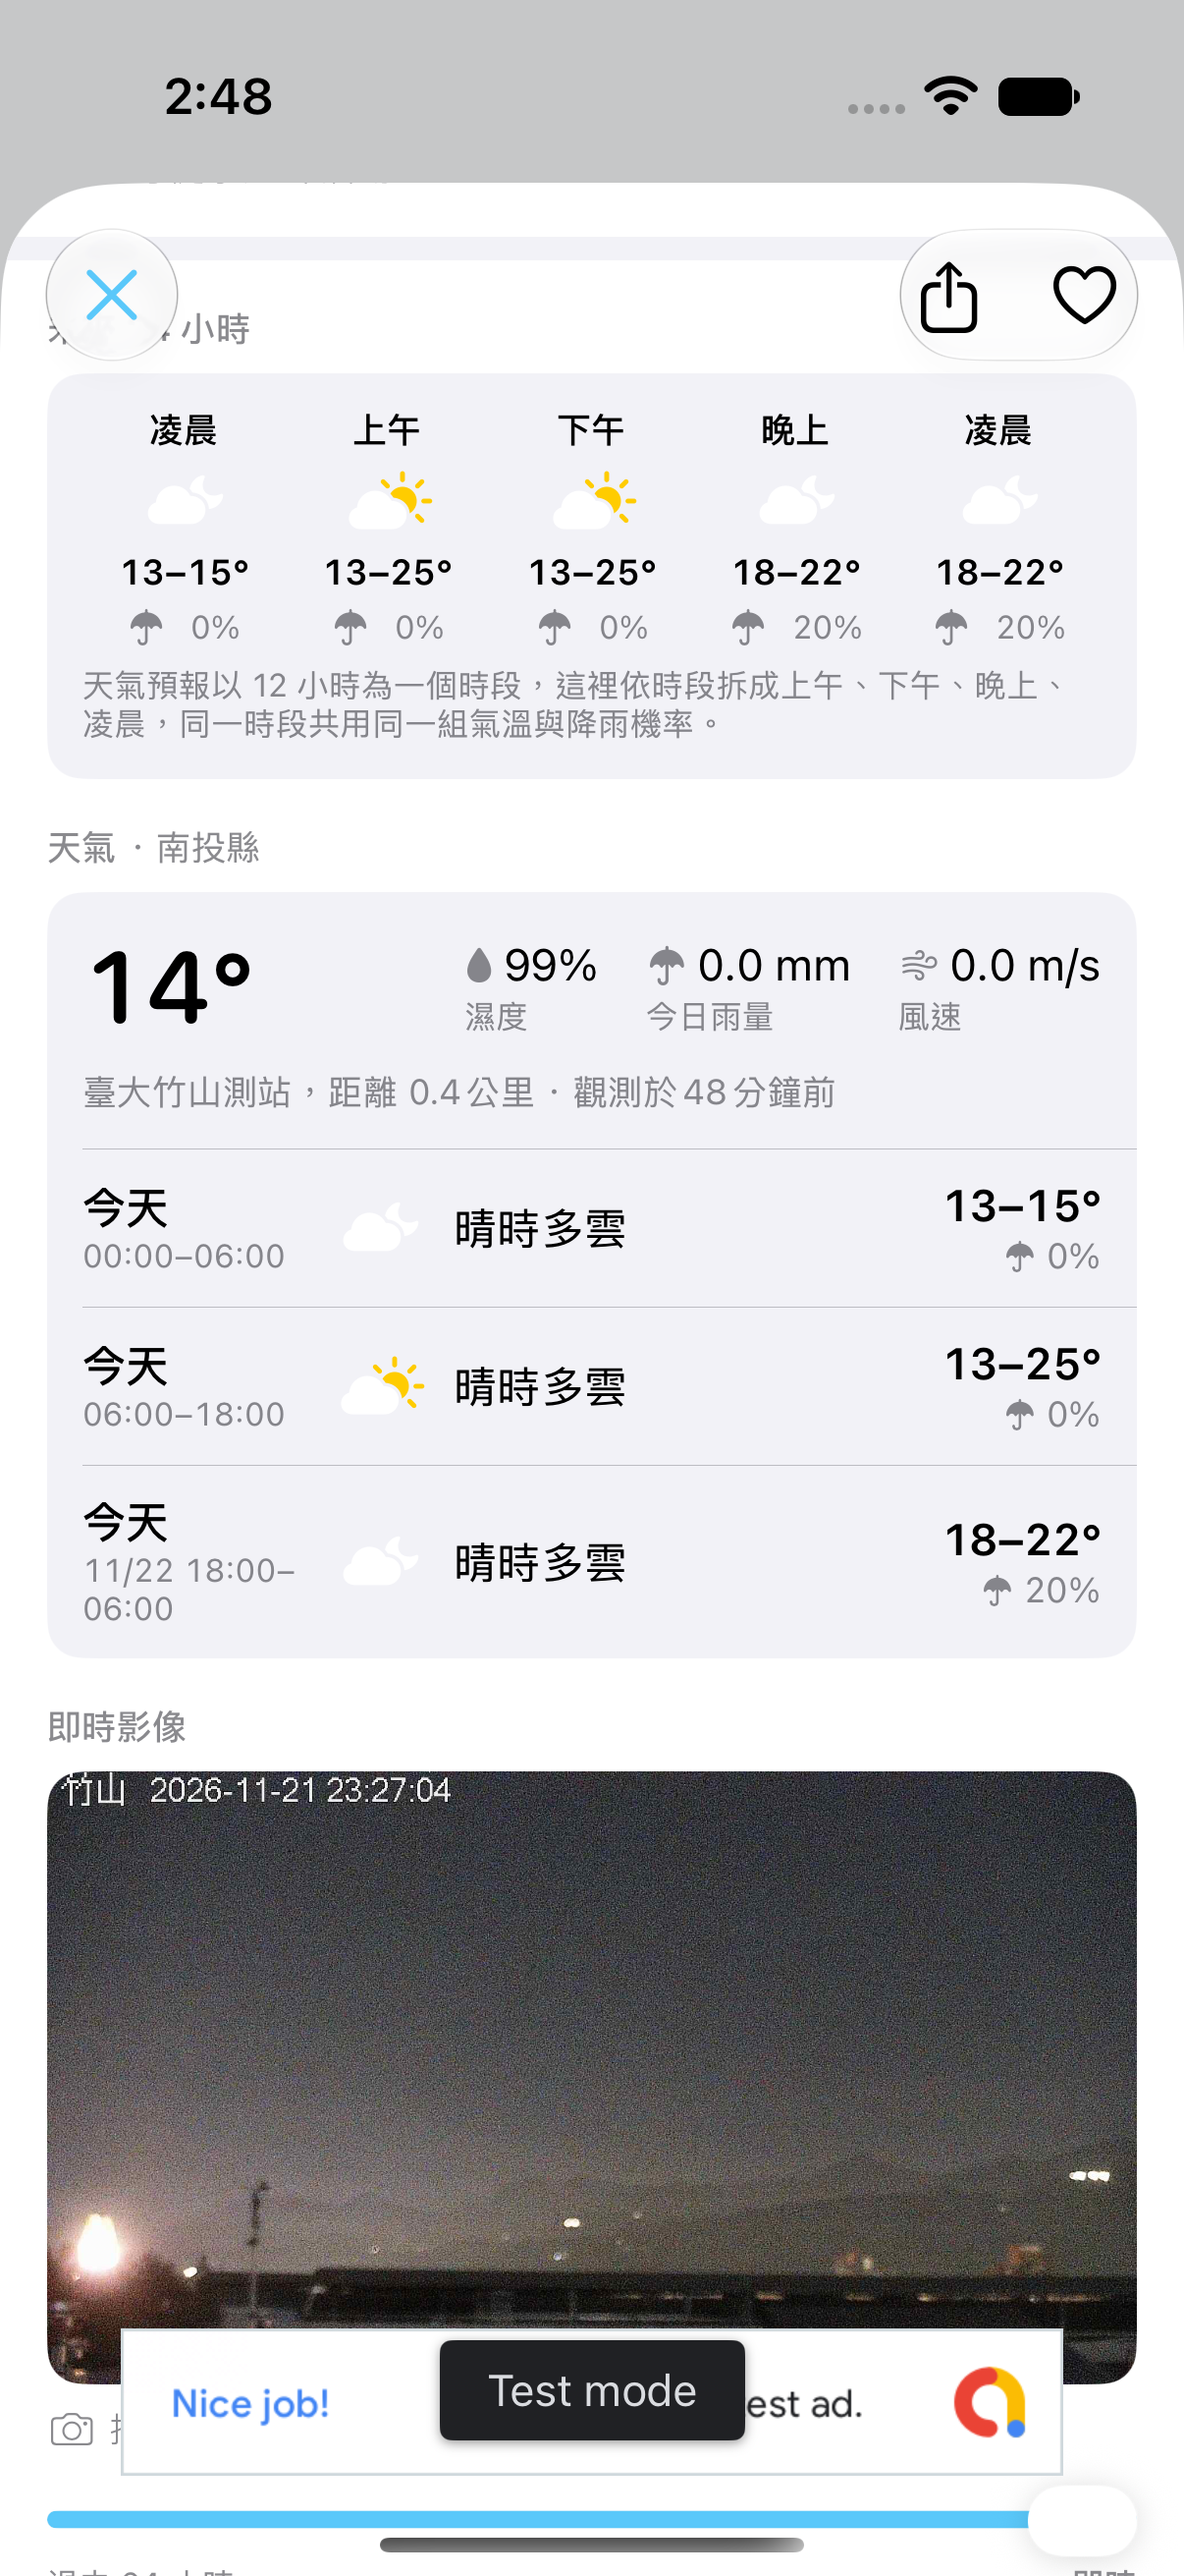
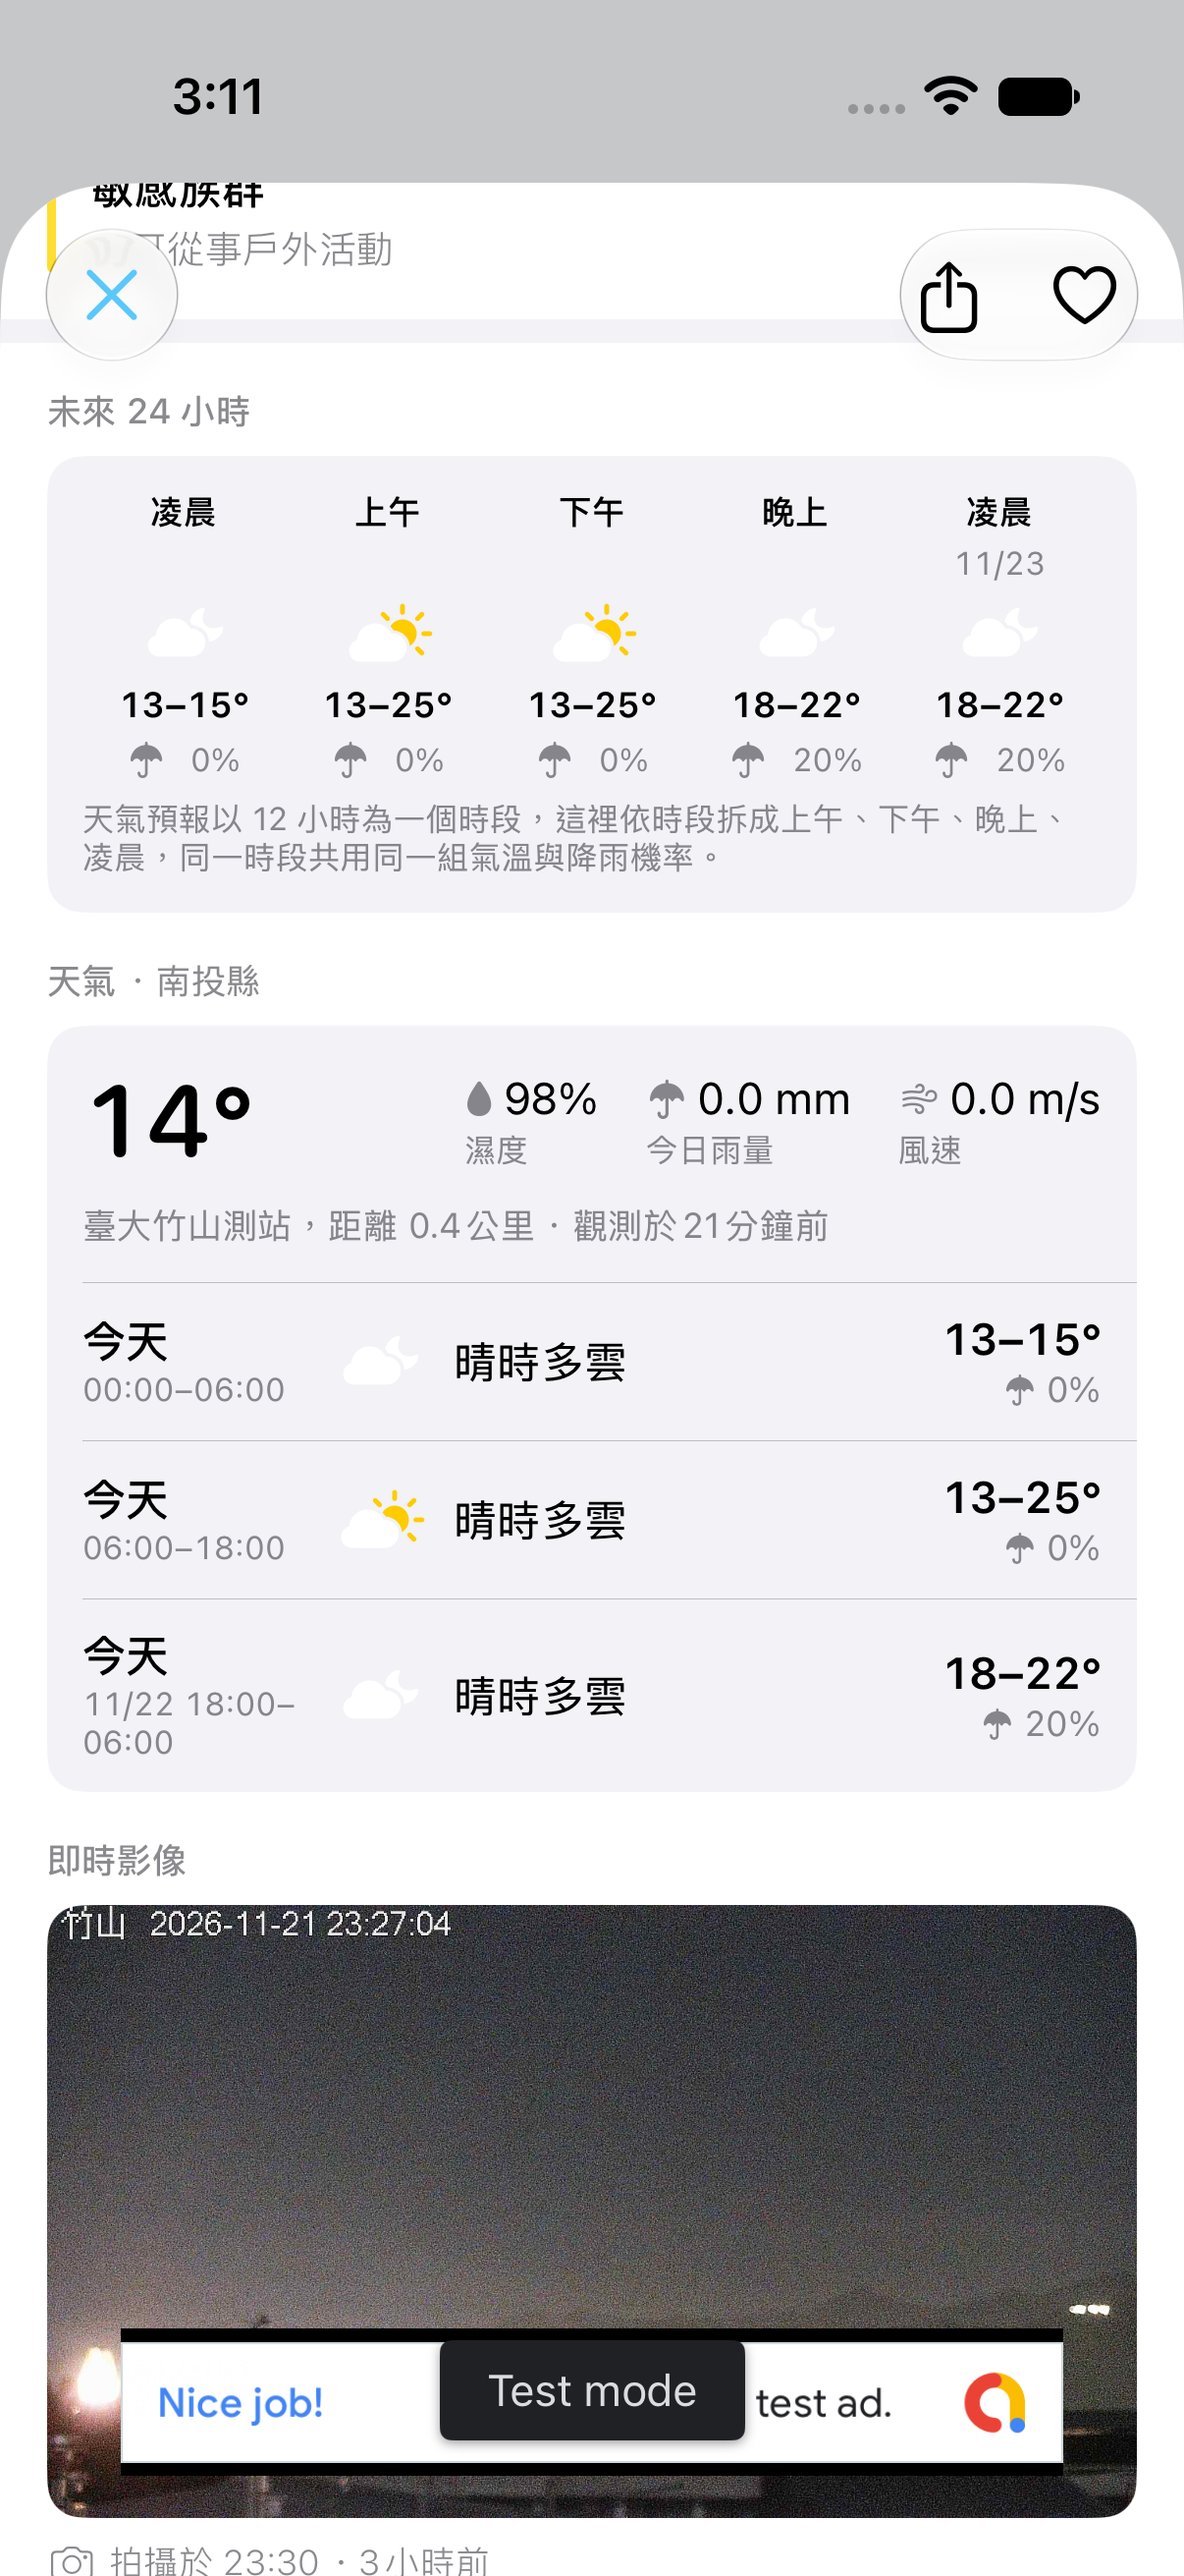
TWAQ-12: review fixes — strip never stuck loading, gaps break the line, saved note and dates
- Forecast lookup with no area/county name now marks the strip answered
  (no endless skeleton); flag resets while a lookup is in flight.
- A missing hour breaks the observed line (runs), as in the history chart.
- Saved-data note also for cached history; spoken by VoiceOver; no doubled
  'degrees'; next-day cells carry their date (and a spoken day).
- Tests for runs, date label (Taiwan day), saved-note summary.

diff --git a/ios/TWAQI/Views/Details/ForecastStripView.swift b/ios/TWAQI/Views/Details/ForecastStripView.swift
@@ -71,7 +71,7 @@ struct ForecastStripView: View {
             .background(Color(.secondarySystemBackground))
             .clipShape(RoundedRectangle(cornerRadius: AreaForecastView.cornerRadius, style: .continuous))
             .accessibilityElement(children: .ignore)
-            .accessibilityLabel(Text(verbatim: Self.accessibilitySummary(state)))
+            .accessibilityLabel(Text(verbatim: Self.accessibilitySummary(state, isSaved: isSaved)))
         }
         .padding(.horizontal)
     }
@@ -139,6 +139,10 @@ struct ForecastStripView: View {
         VStack(spacing: 4) {
             Text(LocalizedStringKey(cell.part.localizationKey))
                 .font(.caption.weight(.semibold))
+            // The date of a later day's cell; a blank keeps the row level.
+            Text(ForecastStrip.dateLabel(cell) ?? " ")
+                .font(.caption2.monospacedDigit())
+                .foregroundColor(.secondary)
             Image(systemName: WeatherCode.symbol(code: cell.wx, night: cell.part.isNight))
                 .symbolRenderingMode(.multicolor)
                 .font(.title3)
@@ -157,7 +161,7 @@ struct ForecastStripView: View {
     // MARK: VoiceOver
 
     /// One sentence per row: the AQI trend, then each part of the day.
-    static func accessibilitySummary(_ state: ForecastStripState) -> String {
+    static func accessibilitySummary(_ state: ForecastStripState, isSaved: Bool = false, now: Date = Date()) -> String {
         let title = "Strip.title".localized
         switch state {
         case .loading:
@@ -166,10 +170,13 @@ struct ForecastStripView: View {
             return "\(title). \((offline ? "Strip.empty_offline" : "Strip.empty").localized)"
         case .loaded(let trend, let cells):
             var parts = [title]
+            if isSaved {
+                parts.append("Strip.saved_note".localized)
+            }
             if let trend = trend {
                 parts.append(aqiSummary(trend))
             }
-            parts.append(contentsOf: cells.map(weatherSummary))
+            parts.append(contentsOf: cells.map { weatherSummary($0, now: now) })
             return parts.joined(separator: ". ")
         }
     }
@@ -186,8 +193,14 @@ struct ForecastStripView: View {
         return sentences.joined(separator: ", ")
     }
 
-    static func weatherSummary(_ cell: WeatherStripCell) -> String {
-        let part = cell.part.localizationKey.localized
+    /// A later day's cell starts with that day ("Tomorrow Morning"), so two
+    /// parts of the same name are told apart.
+    static func weatherSummary(_ cell: WeatherStripCell, now: Date = Date()) -> String {
+        var part = cell.part.localizationKey.localized
+        if ForecastStrip.dateLabel(cell, now: now) != nil {
+            let day = AreaForecastView.dayTitle(WeatherDates.day(cell.start), now: now)
+            part = String(format: "Strip.a11y_day_part %@ %@".localized, day, part)
+        }
         let condition = WeatherCode.text(code: cell.wx, cwaText: cell.text, chinese: Locale.isChinese)
         return String(
             format: "Strip.a11y_weather %@ %@ %@ %@".localized,
@@ -215,16 +228,8 @@ private struct StripAqiTrendChart: View {
                     forecastBar(span, size: size)
                 }
 
-                ForEach(Array(zip(trend.observed, trend.observed.dropFirst()).enumerated()), id: \.offset) { _, pair in
-                    Path { path in
-                        path.move(to: point(pair.0, size: size))
-                        path.addLine(to: point(pair.1, size: size))
-                    }
-                    .stroke(color(pair.1.aqi), style: StrokeStyle(lineWidth: lineWidth, lineCap: .round))
-                }
-                if trend.observed.count == 1, let only = trend.observed.first {
-                    Circle().fill(color(only.aqi)).frame(width: 8, height: 8)
-                        .position(point(only, size: size))
+                ForEach(Array(trend.observedRuns.enumerated()), id: \.offset) { _, run in
+                    observedRun(run, size: size)
                 }
 
                 // Now
@@ -239,6 +244,22 @@ private struct StripAqiTrendChart: View {
                     .font(.caption2)
                     .foregroundColor(.secondary)
                     .position(x: min(max(xPosition(trend.now, width: size.width), 14), size.width - 14), y: 6)
+            }
+        }
+    }
+
+    @ViewBuilder
+    private func observedRun(_ run: [StripAqiTrend.Point], size: CGSize) -> some View {
+        if run.count == 1, let only = run.first {
+            Circle().fill(color(only.aqi)).frame(width: 8, height: 8)
+                .position(point(only, size: size))
+        } else {
+            ForEach(Array(zip(run, run.dropFirst()).enumerated()), id: \.offset) { _, pair in
+                Path { path in
+                    path.move(to: point(pair.0, size: size))
+                    path.addLine(to: point(pair.1, size: size))
+                }
+                .stroke(color(pair.1.aqi), style: StrokeStyle(lineWidth: lineWidth, lineCap: .round))
             }
         }
     }

diff --git a/ios/TWAQITests/ForecastStripTests.swift b/ios/TWAQITests/ForecastStripTests.swift
@@ -208,4 +208,57 @@ final class ForecastStripTests: XCTestCase {
         XCTAssertTrue(text.contains("90"))
         XCTAssertGreaterThanOrEqual(text.components(separatedBy: ". ").count, 2 + cells.count)
     }
+
+    // MARK: Review fixes
+
+    func testAMissingHourBreaksTheObservedLine() {
+        let readings = [
+            reading("2026-11-22T06:00:00", aqi: 40),
+            reading("2026-11-22T07:00:00", aqi: 0),
+            reading("2026-11-22T08:00:00", aqi: 80),
+            reading("2026-11-22T09:00:00", aqi: 82),
+            reading("2026-11-22T10:00:00", aqi: 0),
+        ]
+        let trend = ForecastStrip.aqiTrend(readings: readings, days: [], now: now)
+        // 40 stands alone; 80 and 82 are joined: no stretch from 40 to 80.
+        XCTAssertEqual(trend.observedRuns.map { $0.map(\.aqi) }, [[40], [80, 82]])
+    }
+
+    func testUnbrokenHoursAreOneRun() {
+        let readings = (6...10).map { reading(String(format: "2026-11-22T%02d:00:00", $0), aqi: Double($0 * 5)) }
+        let trend = ForecastStrip.aqiTrend(readings: readings, days: [], now: now)
+        XCTAssertEqual(trend.observedRuns.count, 1)
+        XCTAssertEqual(trend.observedRuns.first?.count, 5)
+        XCTAssertTrue(ForecastStrip.aqiTrend(readings: [], days: [], now: now).observedRuns.isEmpty)
+    }
+
+    func testDateLabelOnlyForLaterTaiwanDays() throws {
+        let cells = ForecastStrip.weatherCells(weatherPeriods(), now: now)
+        // Today's parts: no date. Tomorrow's morning (06:00 on the 23rd): "11/23".
+        XCTAssertNil(ForecastStrip.dateLabel(cells[0], now: now))
+        XCTAssertNil(ForecastStrip.dateLabel(cells[2], now: now))
+        // The night part after midnight is already the 23rd in Taiwan.
+        XCTAssertEqual(ForecastStrip.dateLabel(cells[3], now: now), "11/23")
+        XCTAssertEqual(ForecastStrip.dateLabel(cells[4], now: now), "11/23")
+    }
+
+    func testDateLabelUsesTaiwanDayNotTheDeviceZone() {
+        // 23:30 UTC on the 21st is 07:30 on the 22nd in Taiwan.
+        let utcNow = WeatherDates.parse("2026-11-21T23:30:00Z")!
+        let cell = WeatherStripCell(
+            part: .morning, start: WeatherDates.parse("2026-11-22T06:00:00+08:00")!,
+            end: WeatherDates.parse("2026-11-22T12:00:00+08:00")!,
+            wx: 1, text: nil, pop: nil, minT: nil, maxT: nil
+        )
+        XCTAssertNil(ForecastStrip.dateLabel(cell, now: utcNow))
+    }
+
+    func testAccessibilitySummaryMentionsSavedData() {
+        let cells = ForecastStrip.weatherCells(weatherPeriods(), now: now)
+        let state = ForecastStripState.loaded(trend: nil, cells: cells)
+        let plain = ForecastStripView.accessibilitySummary(state, isSaved: false, now: now)
+        let saved = ForecastStripView.accessibilitySummary(state, isSaved: true, now: now)
+        XCTAssertGreaterThan(saved.count, plain.count)
+        XCTAssertTrue(saved.contains("Strip.saved_note".localized))
+    }
 }

diff --git a/ios/TWAQI/Models/ForecastStrip.swift b/ios/TWAQI/Models/ForecastStrip.swift
@@ -79,6 +79,21 @@ struct StripAqiTrend: Equatable {
     /// Soonest first, from `now` to `windowEnd`.
     let forecast: [Span]
 
+    /// Consecutive hourly readings. A missing hour breaks the line, as in the
+    /// history chart, so a gap never reads as a straight stretch between its
+    /// neighbours. A run of one is drawn as a dot.
+    var observedRuns: [[Point]] {
+        var runs: [[Point]] = []
+        for point in observed {
+            if let last = runs.last?.last, point.time.timeIntervalSince(last.time) <= 3600 + 1 {
+                runs[runs.count - 1].append(point)
+            } else {
+                runs.append([point])
+            }
+        }
+        return runs
+    }
+
     /// Enough to draw: a line, or at least one forecast day.
     var isChartable: Bool { observed.count >= 2 || !forecast.isEmpty }
 }
@@ -127,6 +142,18 @@ enum ForecastStrip {
         // Overlapping periods (a feed hiccup) would double a part: keep the first.
         var seen = Set<Date>()
         return cells.filter { seen.insert($0.start).inserted }
+    }
+
+    /// 「11/23」 for a cell that starts on a later Taiwan day than `now`, so
+    /// the two "Night"s or "Morning"s of a 24-hour window can be told apart;
+    /// nil for today's cells.
+    static func dateLabel(_ cell: WeatherStripCell, now: Date = Date()) -> String? {
+        guard WeatherDates.day(cell.start) != WeatherDates.day(now) else { return nil }
+        let formatter = DateFormatter()
+        formatter.locale = Locale(identifier: "en_US_POSIX")
+        formatter.timeZone = WeatherDates.taipei
+        formatter.dateFormat = "M/d"
+        return formatter.string(from: cell.start)
     }
 
     // MARK: AQI

diff --git a/ios/TWAQI/Views/Details/DetailsViewModel.swift b/ios/TWAQI/Views/Details/DetailsViewModel.swift
@@ -303,7 +303,17 @@ class DetailsViewModel: ObservableObject {
 
     /// Called by both station requests, like `findCam`; the first match wins.
     private func findForecast(areaLocal: String?, countyLocal: String?, title: String?) {
-        guard forecast == nil, areaLocal != nil || countyLocal != nil else { return }
+        guard forecast == nil else { return }
+        // No area or county name to join on (a micro-sensor): nothing to look
+        // up, so the strip must not wait for an answer that never comes.
+        guard areaLocal != nil || countyLocal != nil else {
+            forecastAnswered = true
+            return
+        }
+        // A lookup is starting: the strip waits for it, so a reading saved
+        // without names followed by a station record with them does not flash
+        // the empty message first.
+        forecastAnswered = false
 
         AqiForecastStore.shared.forecasts { forecasts in
             self.forecastAnswered = true

diff --git a/ios/TWAQI/Views/Details/DetailsView.swift b/ios/TWAQI/Views/Details/DetailsView.swift
@@ -154,7 +154,7 @@ struct DetailsView: View {
                 // are absent, not empty, when there is none to show.
                 VStack(alignment: .leading, spacing: 16) {
                     if showsForecastStrip {
-                        ForecastStripView(state: forecastStripState, isSaved: viewModel.isShowingLastGood)
+                        ForecastStripView(state: forecastStripState, isSaved: viewModel.isShowingLastGood || viewModel.isShowingCachedHistory)
                     }
 
                     if let forecast = viewModel.forecast {
